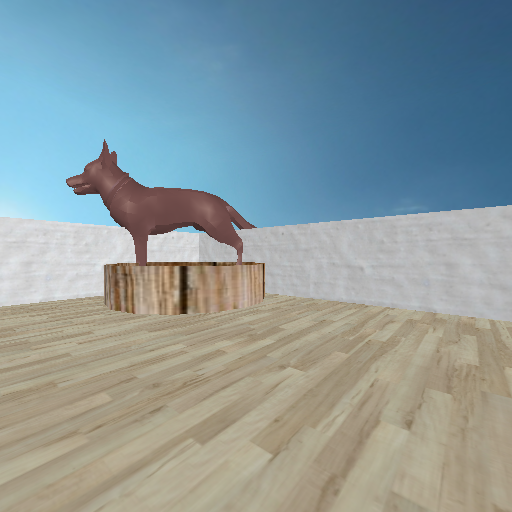
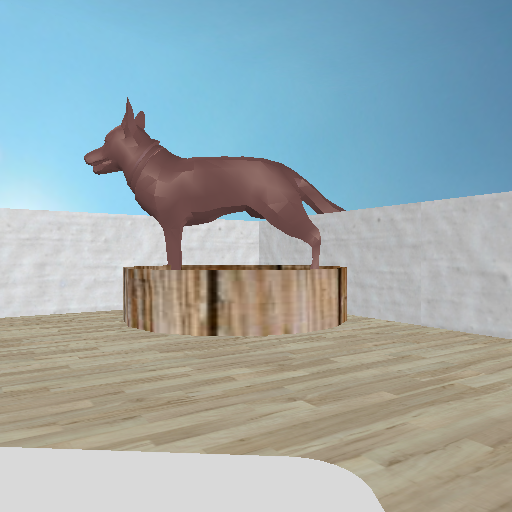
clustering + state machine

diff --git a/youbot/main.m b/youbot/main.m
@@ -116,6 +116,7 @@ baskets = [];
 baskets_entry = [];
 tables = [];
 xyztable = [];
+objects = [];
 
 % Initialyze a first robot path
 [i j] = wrapper_vrep_to_matrix([-2 -2], [-4.75 -5.25]);
@@ -266,26 +267,56 @@ while true,
                 master_fsm = 'back_to_origin';
                 fsm = 'checkpoint';
             else
-                master_fsm = 'find_objects';
+                master_fsm = 'find_tables_basckets';
                 fsm = 'on_destination';
             end
             
-        elseif strcmp(master_fsm, 'find_objects'),
-            disp('find_objects');
+        elseif strcmp(master_fsm, 'find_tables_basckets'),
+            disp('find_tables_basckets');
             [tables baskets baskets_entry] = find_basket (map);
             map_print(323, map, [tables; baskets_entry ; baskets]);
-            master_fsm = 'discover_tables';
-            fsm = 'on_destination';
-            tablesid = 1;
+            
+            if exist('pc.xyz', 'file') == 2,
+                xyztable = importdata('pc.xyz');
+                xyztable = xyztable';
+                master_fsm = 'discover_tables_objects';
+                fsm = 'on_destination';
+            else
+                master_fsm = 'discover_tables';
+                fsm = 'on_destination';
+                tablesid = 1;
+            end
+            
             
         elseif strcmp(master_fsm, 'discover_tables'),
             disp('discover_tables');
             
             if tablesid > 1,
                 xyztable = find_objects(vrep, id, h, youbotPos, youbotEuler, tables, xyztable);
+                if tablesid == 2,
+                    disp('RGB photo of the table');
+                    view_angl = pi/3;
+                    angl = compute_photo_angle(youbotPos, youbotEuler, tables(2,:));
+                    [pts, image] = take_picture (vrep, id, h, angl-(pi/2), view_angl, -0.04);
+                    
+                    % Initialyze the transformation matrix youBot to Vrep
+                    transf = [cos(youbotEuler(3)) -sin(youbotEuler(3)) youbotPos(1) ; sin(youbotEuler(3)) cos(youbotEuler(3)) youbotPos(2) ; 0 0 1];
+        
+                    % Position of camera in VREP
+                    camVrep = transf * [0 ; -0.25 ; 1] 
+                    angl
+                    view_angl
+                    
+                    % Display the RGB image
+                    subplot(325)
+                    imshow(image);
+                    imsave
+                    drawnow;
+                    pause(5)
+                end
             end
             if tablesid < 9,
-                r = 2.5;
+                r = 3;
                 if tablesid == 1,
                     dest = tables(2,:) + [-r 0];
                     dest_euler = compute_angle(dest, tables(2,:)) - pi/2;
@@ -319,7 +350,7 @@ while true,
                     dest_euler = compute_angle(dest, tables(2,:)) - pi/2;
                 end
                 robot_path = dest;
-                speed_coef = 0.5;
+                speed_coef = 0.2;
                 fsm = 'checkpoint';
             else
                 % Save the xyz points
@@ -327,33 +358,37 @@ while true,
                 fprintf(fileID,'%f %f %f\n',xyztable);
                 fclose(fileID);
                 fprintf('Read %i 3D points, saved to pc.xyz.\n', max(size(xyztable)));
-                
-                % Compute clustering to dectect objects
-                [idx,C] = kmeans15(xyztable', 5, 'maxIter','1000');
-                subplot(324)
-                cla
-                plot3(xyztable(1,:), xyztable(2,:), xyztable(3,:), '*b', C(:,1), C(:,2), C(:,3), 'or');
-                axis equal;
     
-                master_fsm = 'discover_basckets';
+                master_fsm = 'discover_tables_objects';
                 fsm = 'on_destination';
                 speed_coef = 1;
-                basketsid = 0;
             end
             tablesid = tablesid + 1;
+
+
+        elseif strcmp(master_fsm, 'discover_tables_objects'),
+            disp('discover_tables_objects');
+        
+            % Compute clustering to dectect objects
+            [idx,C] = kmeans15(xyztable', 5, 'maxIter','100', 'replicates', 15);
+            subplot(324)
+            cla
+            plot3(xyztable(1,:), xyztable(2,:), xyztable(3,:), '*b', C(:,1), C(:,2), C(:,3), 'or');
+            axis equal;
             
+            objects = C
             
+            master_fsm = 'discover_basckets';
+            fsm = 'on_destination';
+            basketsid = 0;
+        
+        
         elseif strcmp(master_fsm, 'discover_basckets'),
             disp('discover_basckets');
             if basketsid ~= 0,
-                [i j] = wrapper_vrep_to_matrix(youbotPos(1), youbotPos(2));
-                from = double([i j]);
-                deltax = baskets(basketsid,1) - from(1);
-                deltay = baskets(basketsid,2) - from(2);
-                angl = atan2(deltay, deltax)
-                angl = angdiff(angl, youbotEuler(3))
-
-                [pts image] = take_picture(vrep, id, h, (angl-pi/2), pi/2, -0.04);
+            
+                angl = compute_photo_angle(youbotPos, youbotEuler, baskets(basketsid,:));
+                [pts, image] = take_picture (vrep, id, h, angl-(pi/2), pi/3, -0.04);
                 
                 % Display the RGB image
                 subplot(325)
@@ -369,6 +404,7 @@ while true,
                 from = int32([i j]);
                 baskets_entry(basketsid,:)
                 robot_path = compute_path(map2, from, baskets_entry(basketsid,:));
+                dest_euler = compute_angle(baskets_entry(basketsid,:), baskets(basketsid,:)) - pi/2;
                 master_fsm = 'discover_basckets';
                 fsm = 'checkpoint';
             else
@@ -425,10 +461,12 @@ while true,
                     alpha = abs(angdiff(angl, youbotEuler(3)));
                     if alpha < (pi / 8)
                         a = (pi - alpha)/pi*10;
+                    elseif alpha < (pi / 16)
+                        a = (pi - alpha)/pi*5;
                     else
                         a = (pi - alpha)/pi*1;
                     end
-                    forwBackVel = -a*d*speed_coef;
+                    forwBackVel = -a*7*d*speed_coef;
                     rotVel = 20 * angdiff(angl, youbotEuler(3));
                     
                     if alpha < (pi / 10)
@@ -460,7 +498,6 @@ while true,
         end
         
     elseif strcmp(fsm, 'final_rotate'),
-        disp('final_rotate');
         if isnan(dest_euler)
             disp('coucou');
             fsm = 'on_destination';
